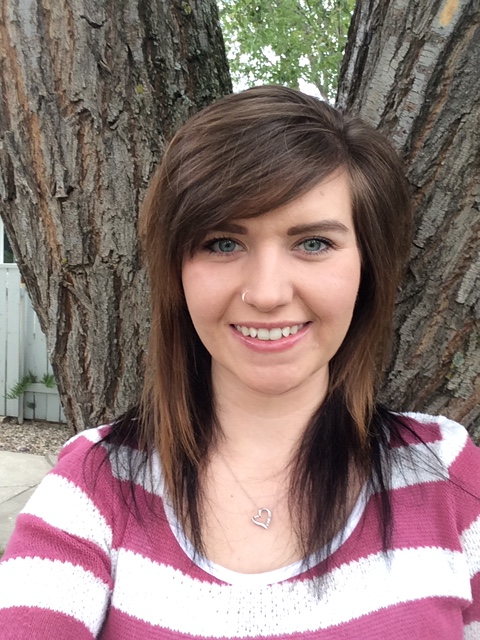
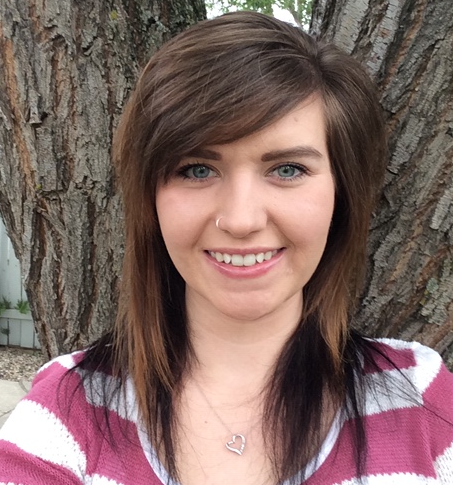
changed alt, portrait and added flex

diff --git a/index.html b/index.html
@@ -8,30 +8,30 @@
   <link href="https://fonts.googleapis.com/css?family=Fahkwang" rel="stylesheet">
 </head>
 
-<body>
-  <br><br>
-  <h1>Cassandra Olfert</h1>
-  <h2>Second Year Computer Information Technology Student</h2>
-  <br><br>
-  <div class="portrait">
-    <img src="static/portrait.png" alt="Photo of Cassandra">
-  </div>
-  <div id="links">
-    <br><br><br><br><br>
-    <br><br><br><br><br>
-    <nav>
+<div class="wrap">
+
+  <body>
+    <h1>Cassandra Olfert</h1>
+    <h2>Second Year Computer Information Technology Student</h2>
+    <div class="portrait">
+      <img src="static/portrait.png" alt="Cassandra">
+    </div>
+  </body>
+  <nav>
+    <div id="links">
       <a href="https://www.linkedin.com/in/cassandra-olfert-9b5745177" target="blank">
-        <img class="images" style="border-radius: 20%" src="static/linkedinIcon.jpg" alt="LinkedIn Icon" width="50px"
-          height="auto">
+        <img class="link_images" style="border-radius: 20%" src="static/linkedinIcon.jpg" alt="LinkedIn Icon"
+          width="50px" height="auto">
         </img>
       </a>
       <a href="https://github.com/olfertc" target="blank">
-        <img class="images" style="border-radius: 20%" src="static/githubIcon.jpg" alt="Github Icon" width="50px"
+        <img class="link_images" style="border-radius: 20%" src="static/githubIcon.jpg" alt="Github Icon" width="50px"
           height="auto">
         </img>
       </a>
-    </nav>
-  </div>
-</body>
+    </div>
+  </nav>
+
+</div>
 
 </html>

diff --git a/static/index.css b/static/index.css
@@ -1,3 +1,9 @@
+.wrap {
+    display: flex;
+    flex-direction: column;
+    align-items: center;
+}
+
 body {
     background-color: #523131ce;
     background-image: url(./background.jpeg);
@@ -33,13 +39,15 @@ h2 {
     align-items: center;
     justify-content: center;
     border: 3px solid white;
-    margin: auto;
-    width: 150px;
+    border-radius: 50%;
+    margin: 100px;
+    width: 225px;
 }
 
 .portrait img {
     display: inline-block;
-    width: 150px;
+    border-radius: 50%;
+    width: 225px;
     height: auto;
 }
 
@@ -48,9 +56,9 @@ h2 {
     text-decoration: none;
 }
 
-.images {
+.link_images {
     display: inline-block;
     margin-left: auto;
     margin-right: auto;
-    padding: 1px;    
+    padding: 1px;
 }
